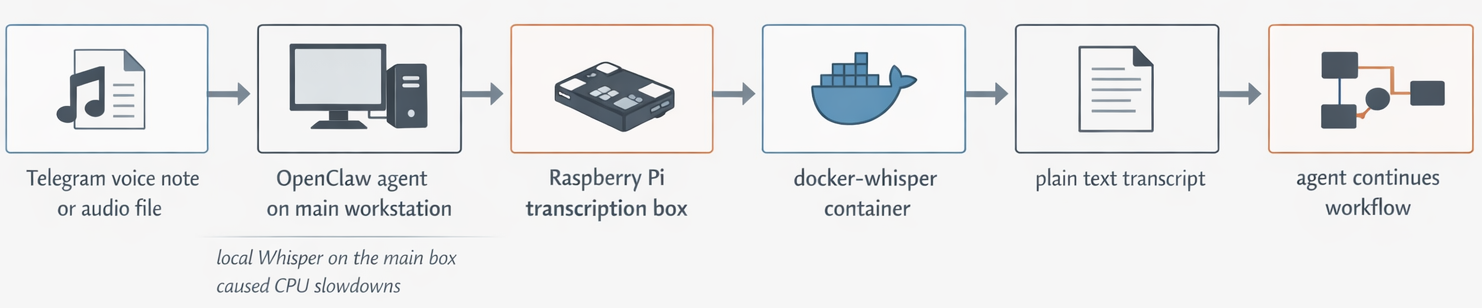
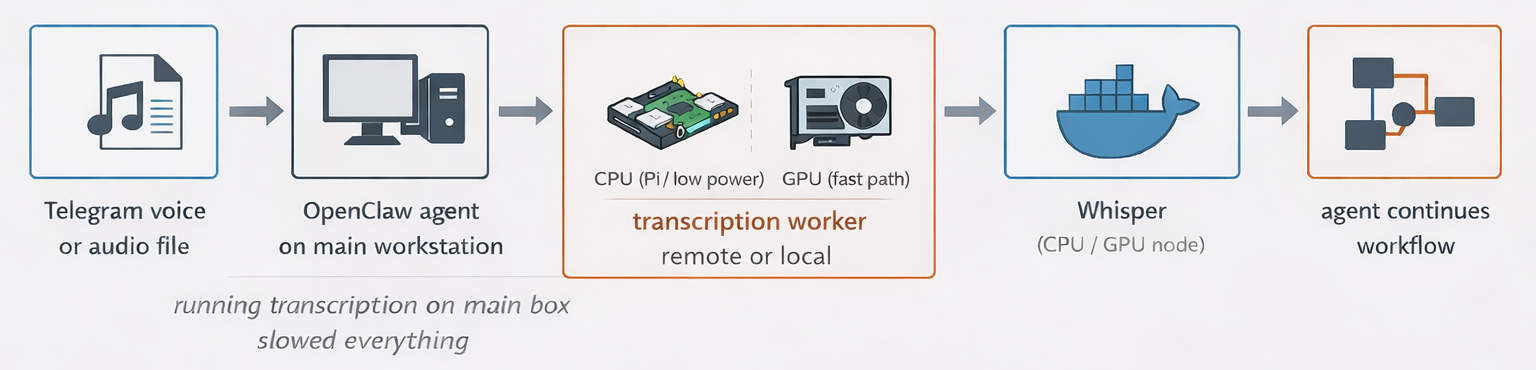
update architecture diagram for cpu and gpu paths

diff --git a/README.md b/README.md
@@ -14,7 +14,7 @@ One common use case: an OpenClaw agent receives a Telegram voice note, posts the
 
 This repo is mostly about the local handoff. The HTTP endpoint matters because it makes the integration easy, but the real win is simpler than that: let people send voice notes to an agent without making the agent box miserable to use.
 
-![Architecture diagram showing a Telegram voice note flowing through an OpenClaw agent to a Raspberry Pi transcription box, then back as plain text so the workflow can continue.](./docs/architecture-diagram.png)
+![Architecture diagram showing a Telegram voice note flowing through an OpenClaw agent on the main workstation to a separate transcription worker, then through Whisper on a CPU or GPU node, before the agent continues the workflow.](./docs/architecture-diagram.png)
 
 ## At a glance
 
